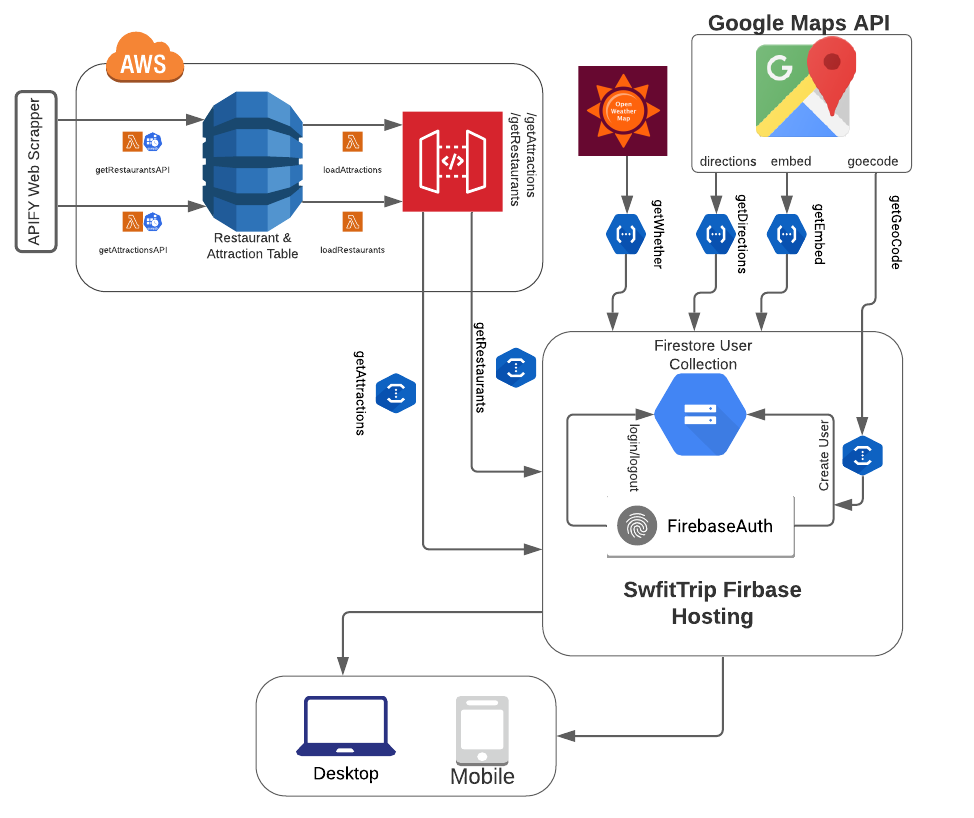
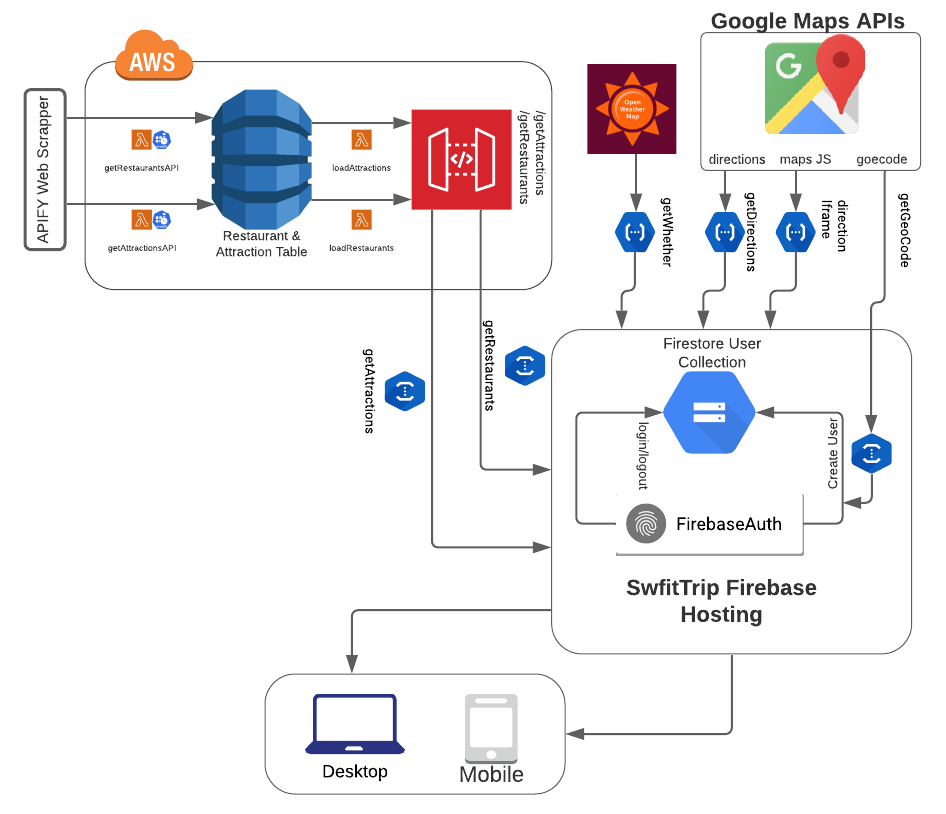
newer mods

diff --git a/firebase/public/script.js b/firebase/public/script.js
@@ -17,8 +17,76 @@ document.getElementById('attraction-desk').addEventListener('click', () => loadA
 document.getElementById('attraction-mobile').addEventListener('click', () => loadAttractions());
 document.getElementById('account-details').addEventListener('click', async () => { accountDetails()});
 document.getElementById('account-details-mobile').addEventListener('click', async () => { accountDetails()});
+document.getElementById('dark-mode-mobile').addEventListener('click', () => darkBoolean());
+document.getElementById('dark-mode').addEventListener('click', () => darkBoolean());
+
+//dark mode
+function darkBoolean() {
+    if(dark) {
+        dark = false
+        firestore.collection('users').doc(auth.currentUser.uid).update({dark: false});
+    } else {
+        dark = true;
+        firestore.collection('users').doc(auth.currentUser.uid).update({dark: true});
+    }
+    darkToggle();
+}
+async function darkToggle() {
+    let user = await firestore.collection('users').doc(auth.currentUser.uid).get();
+    dark = user.data().dark;
+    if(dark === true) {
+        document.querySelectorAll('.card').forEach(card => {
+            card.classList.remove('grey')
+            card.classList.remove('darken-2')
+        })
+        document.querySelectorAll('.card-reveal').forEach(card => {
+            card.classList.remove('grey')
+            card.classList.remove('darken-2')
+        })
+        document.querySelectorAll('.modal').forEach(card => {
+            card.classList.remove('grey')
+            card.classList.remove('darken-2')
+        })
+        document.body.classList.remove('grey')
+        document.body.classList.remove('darken-3')
+        document.body.classList.remove('white-text')
+        document.querySelector('.sidenav').classList.remove('grey')
+        document.querySelector('.sidenav').classList.remove('darken-3')
+        document.querySelector('.sidenav').classList.remove('white-text')
+        document.querySelectorAll('.mnav').forEach(item => {
+            item.classList.remove('grey')
+            item.classList.remove('darken-3') 
+            item.classList.remove('white-text')
+        });
+    } else {
+        document.querySelectorAll('.modal').forEach(card => {
+            card.classList.add('grey')
+            card.classList.add('darken-2')
+        })
+        document.querySelectorAll('.card').forEach(card => {
+            card.classList.add('grey')
+            card.classList.add('darken-2')
+        })
+        document.querySelectorAll('.card-reveal').forEach(card => {
+            card.classList.add('grey')
+            card.classList.add('darken-2')
+        })
+        document.body.classList.add('grey')
+        document.body.classList.add('darken-3')
+        document.body.classList.add('white-text')
+        document.querySelector('.sidenav').classList.add('grey')
+        document.querySelector('.sidenav').classList.add('darken-3')
+        document.querySelector('.sidenav').classList.add('white-text')
+        document.querySelectorAll('.mnav').forEach(item => {
+            item.classList.add('grey')
+            item.classList.add('darken-3') 
+            item.classList.add('white-text')
+        });
+    }
+}
 
 //Variables that store data
+export let dark = false;
 let responseRestaurant = [];
 let responseAttraction = [];
 let likes = [];
@@ -29,9 +97,11 @@ let weather = ``;
 let weatherIcon = ``;
 let temp;
 let type;
+let token = '';
 
 //landing Page functions
 export default function landingPage() {
+    darkToggle();
     document.getElementById('logged-in-content').innerHTML = `<h4 class="center">Welcome to SwiftTrip!</h4>    
                                                                 <div class="parallax-container logged-out">
                                                                     <div class="parallax"><img src="images/dusk.jpg" style="transform: translate3d(-40%, 150px, 0px); opacity: 1;"></div>
@@ -109,6 +179,7 @@ export async function loadAttractions() {
     })
     let image = document.querySelectorAll('.materialboxed');
     let imageInstance = M.Materialbox.init(image);
+    darkToggle();
 }
 
 //render attractions page
@@ -126,7 +197,7 @@ function loadAttractionElement(attraction) {
             ${genLikeHtml1(attraction.attractionId)}
         </div>
         <div class="card-reveal">
-            <span class="card-title grey-text text-darken-4">${attraction.name}<i class="material-icons right">close</i></span>
+            <span class="card-title">${attraction.name}<i class="material-icons right">close</i></span>
             <p>${attraction.street}</p>
             <div class="row">
                 <div class="col s12 m4">
@@ -134,13 +205,20 @@ function loadAttractionElement(attraction) {
                     <p><i class="material-icons-outlined left">reviews</i> Overall Rating: ${attraction.rating}/5</p>
                     <p><i class="material-icons-outlined left">groups</i> Currently ${attraction.popularTime}% Occupied</p>
                     <a target="_blank" href="http://www.${attraction.website}"><i class="material-icons-outlined left">language</i>Website</a>
-                    <p><i class="material-icons-outlined left">restaurant</i> Cuisine: ${attraction.type}</p>
+                    <p><i class="material-icons-outlined left">park</i> Type: ${attraction.type}</p>
                 </div>
                 <div class="col s12 m4">
                     <h6>Map</h6>
-                    <iframe class="center" width="275" style="border:0" loading="lazy" allowfullscreen
-                        src="https://www.google.com/maps/embed/v1/place?key=APIKEY&q=place_id:${attraction.placeId}">
-                    </iframe>
+                    <div id="map-${attraction.placeId}" style="height:175px">
+                        <iframe
+                            class="center"
+                            width="275"
+                            style="border:0"
+                            loading="lazy"
+                            allowfullscreen
+                            src="https://www.google.com/maps/embed/v1/place?key=AIzaSyBk9-q-2IJGlD0OoWJJ-AT9DV0kYatK8xA&q=place_id:${attraction.placeId}">
+                        </iframe>
+                    </div>
                 </div>
                 <div class="col s12 m4" id="direction-${attraction.placeId}">
                     <a id="${attraction.placeId}" class="waves-effect blue btn direction center"><i class="material-icons-outlined left">directions</i>Directions</a>
@@ -242,6 +320,7 @@ export async function loadItems() {
     })
     let image = document.querySelectorAll('.materialboxed');
     let imageInstance = M.Materialbox.init(image);
+    darkToggle()
 }
 
 //generate the card layout
@@ -259,7 +338,7 @@ function loadRestaurantElement(restaurant) {
             ${genLikeHtml(restaurant.retaurantId)}
         </div>
         <div class="card-reveal">
-            <span class="card-title grey-text text-darken-4">${restaurant.name}<i class="material-icons right">close</i></span>
+            <span class="card-title">${restaurant.name}<i class="material-icons right">close</i></span>
             <p>${restaurant.street}</p>
             <div class="row">
                 <div class="col s12 m4">
@@ -271,14 +350,16 @@ function loadRestaurantElement(restaurant) {
                 </div>
                 <div class="col s12 m4">
                     <h6>Map</h6>
-                    <iframe
-                        class="center"
-                        width="275"
-                        style="border:0"
-                        loading="lazy"
-                        allowfullscreen
-                        src="https://www.google.com/maps/embed/v1/place?key=APIKEY&q=place_id:${restaurant.placeId}">
-                    </iframe>
+                    <div id="map-${restaurant.placeId}" style="height:175px">
+                        <iframe
+                            class="center"
+                            width="275"
+                            style="border:0"
+                            loading="lazy"
+                            allowfullscreen
+                            src="https://www.google.com/maps/embed/v1/place?key=AIzaSyBk9-q-2IJGlD0OoWJJ-AT9DV0kYatK8xA&q=place_id:${restaurant.placeId}">
+                        </iframe>
+                    </div>
                 </div>
                 <div class="col s12 m4" id="direction-${restaurant.placeId}">
                     <a id="${restaurant.placeId}" class="waves-effect blue btn direction center"><i class="material-icons-outlined left">directions</i>Directions</a>
@@ -347,10 +428,44 @@ async function getDirections(origin) {
     let time = directions.data.routes[0].legs[0].duration.text;
     let miles = directions.data.routes[0].legs[0].distance.text;
     let mainRoad = directions.data.routes[0].summary;
+    const directionService = new google.maps.DirectionsService();
+    const directionRender = new google.maps.DirectionsRenderer();
+    const map = new google.maps.Map(document.getElementById("map-"+origin), {
+        zoom: 7,
+        center: { lat: 35.9132, lng: 79.0558 },
+        disableDefaultUI: true,
+    });
+    directionRender.setMap(map);
+    renderDirectionMap(directionService, directionRender, destination, origin);
     document.getElementById('direction-'+origin).innerHTML = `<h6>Fastest Route</h6>
                                                               <p><i class="material-icons-outlined left">schedule</i> ${time}</p>
                                                               <p><i class="material-icons-outlined left">map</i> ${miles}</p>
                                                               <p><i class="material-icons-outlined left">add_road</i> via ${mainRoad}</p>`
+}
+
+function renderDirectionMap(service, renderer, originLocation, destinationLocation) {
+    service.route({
+        origin: {
+            placeId: originLocation
+        },
+        destination: {
+            placeId: destinationLocation
+        },
+        travelMode: google.maps.TravelMode.DRIVING,
+    },
+    (response, status) => {
+        if(status === 'OK') {
+            renderer.setDirections(response);
+        }
+    })
+}
+
+function formComplete() {
+   return new google.maps.places.Autocomplete(
+        document.getElementById('detail-address'), {
+            types: ['geocode'],
+        }
+    )
 }
 
 //account details page and helper functions
@@ -392,6 +507,7 @@ async function accountDetails() {
         <h4 class="center">Favorite Attractions</h4>
         ${likedAttractions}
         <br>`;
+        let autocomplete = formComplete();
         let image = document.querySelectorAll('.materialboxed');
         let imageInstance = M.Materialbox.init(image);
         document.querySelectorAll(".add-favorite").forEach(item => {
@@ -428,6 +544,7 @@ async function accountDetails() {
                 document.getElementById("update-status").innerHTML = `<p class="green-text">Update successful!</p>`;
             })
         })
+        darkToggle();
     }
 }
 

diff --git a/firebase/public/index.html b/firebase/public/index.html
@@ -13,10 +13,28 @@
         href="https://fonts.googleapis.com/css?family=Material+Icons|Material+Icons+Outlined|Material+Icons+Two+Tone|Material+Icons+Round|Material+Icons+Sharp"
         rel="stylesheet">
     <link rel="stylesheet" href="https://cdnjs.cloudflare.com/ajax/libs/font-awesome/5.15.3/css/all.min.css" integrity="sha512-iBBXm8fW90+nuLcSKlbmrPcLa0OT92xO1BIsZ+ywDWZCvqsWgccV3gFoRBv0z+8dLJgyAHIhR35VZc2oM/gI1w==" crossorigin="anonymous" />
+    <style>
+        .pac-container {
+            z-index: 1051 !important;
+        }
+    </style>
+    <script>
+        let autocomplete;
+        function initAutocomplete() {
+            autocomplete = new google.maps.places.Autocomplete(
+                document.getElementById('signup-address'), {
+                    types: ['geocode'],
+                }
+            )
+        }
+    </script>
+    <script async
+        src="https://maps.googleapis.com/maps/api/js?key=AIzaSyBk9-q-2IJGlD0OoWJJ-AT9DV0kYatK8xA&libraries=places&callback=initAutocomplete">
+    </script>
     <script src="https://ajax.googleapis.com/ajax/libs/jquery/3.5.1/jquery.min.js"></script>
 
 </head>
-<body>
+<body class="">
     <div class="navbar-fixed">
         <nav class="blue darken-4">
             <div class="nav-wrapper container">
@@ -35,6 +53,9 @@
                     <li class="logged-in">
                         <a id="logout"><i class="material-icons-outlined left">logout</i>Logout</a>
                     </li>
+                    <li class="logged-in">
+                        <a id="dark-mode"><i class="material-icons-outlined left">dark_mode</i>Dark Toggle</a>
+                    </li>
                     <li class="logged-out">
                         <a class="modal-trigger" data-target="modal-login"><i
                                 class="material-icons-outlined left">login</i>Login</a>
@@ -50,23 +71,26 @@
     </div>
     <ul class="sidenav" id="mobile-demo">
         <li class="logged-in">
-            <a id="feed-mobile"><i class="material-icons-outlined left">restaurant</i>Restaurants</a>
+            <a id="feed-mobile" class="mnav"><i class="material-icons-outlined left">restaurant</i>Restaurants</a>
         </li>
         <li class="logged-in">
-            <a id="attraction-mobile"><i class="material-icons-outlined left">park</i>Attractions</a>
+            <a id="attraction-mobile" class="mnav"><i class="material-icons-outlined left">park</i>Attractions</a>
         </li>
         <li class="logged-in">
-            <a id="account-details-mobile"><i class="material-icons-outlined left">person</i>Account</a>
+            <a id="account-details-mobile" class="mnav"><i class="material-icons-outlined left">person</i>Account</a>
         </li>
         <li class="logged-in">
-            <a id="logout-mobile"><i class="material-icons-outlined left">logout</i>Logout</a>
+            <a id="logout-mobile" class="mnav"><i class="material-icons-outlined left">logout</i>Logout</a>
+        </li>
+        <li class="logged-in">
+            <a id="dark-mode-mobile" class="mnav"><i class="material-icons-outlined left">dark_mode</i>Dark Toggle</a>
         </li>
         <li class="logged-out">
-            <a class="modal-trigger" data-target="modal-login"><i
+            <a class="modal-trigger mnav" data-target="modal-login"><i
                     class="material-icons-outlined left">login</i>Login</a>
         </li>
         <li class="logged-out">
-            <a class="modal-trigger" data-target="modal-signup"><i class="material-icons-outlined left">add</i>Create
+            <a class="modal-trigger mnav" data-target="modal-signup"><i class="material-icons-outlined left">add</i>Create
                 Account</a>
         </li>
     </ul>
@@ -105,7 +129,6 @@
                 <div class="input-field">
                     <i class="material-icons-outlined prefix">contact_mail</i>
                     <input type="text" id="signup-address" required />
-                    <label for="signup-address">Mailing Address</label>
                 </div>
                 <div class="input-field">
                     <i class="material-icons-outlined prefix">cake</i>

diff --git a/aws-functions/loadAttractions/index.js b/aws-functions/loadAttractions/index.js
@@ -8,6 +8,7 @@ exports.handler = async (event) => {
     let response = {};
     try {
         let time = new Date();
+        time.setHours(time.getHours() - 4);
         await dynamodb.scan({TableName: 'attraction'}).promise().then(data => {
             let returnArr = [];
             data['Items'].forEach(attraction => {
@@ -18,7 +19,7 @@ exports.handler = async (event) => {
                         name: item.name,
                         street: item.steet + ', Chapel Hill, NC',
                         attractionId: item.attractionId,
-                        popularTime: JSON.parse(item.popularTime)[getDayPrefix(time.getDay())][time.getHours()].occupancyPercent,
+                        popularTime: JSON.parse(item.popularTime)[getDayPrefix(time.getDay())].filter(i => i.hour === time.getHours())[0].occupancyPercent,
                         type: JSON.parse(item.type),
                         rating: item.rating,
                         website: item.website,

diff --git a/aws-functions/loadRestaurants/index.js b/aws-functions/loadRestaurants/index.js
@@ -8,6 +8,7 @@ exports.handler = async (event) => {
     let response = {};
     try {
         let time = new Date();
+        time.setHours(time.getHours() - 4);
         await dynamodb.scan({TableName: 'restaurant'}).promise().then(data => {
             let returnArr = [];
             data['Items'].forEach(restaurant => {
@@ -18,7 +19,7 @@ exports.handler = async (event) => {
                         name: item.name,
                         street: item.steet + ', Chapel Hill, NC',
                         retaurantId: item.restaurantId,
-                        popularTime: JSON.parse(item.popularTime)[getDayPrefix(time.getDay())][time.getHours()].occupancyPercent,
+                        popularTime: JSON.parse(item.popularTime)[getDayPrefix(time.getDay())].filter(i => i.hour === time.getHours())[0].occupancyPercent,
                         type: JSON.parse(item.type),
                         rating: item.rating,
                         website: item.website,

diff --git a/readme.md b/readme.md
@@ -19,14 +19,22 @@ SwfitTrip is a one stop web application that shows you restaurants and attractio
 - Google Maps Direction API
   - The direction api is called to find the directions from a users location to a place the select in the application  (restaurant, attraction)
   - The user placeId that was geocoded prior is pulled from Firestore and directions are provided
-- Google Maps Embed API
-  - The Embed API is shown to render a small square on each location card element to show where that location is located in Chapel Hill
+- Google Maps Javascript API
+  - This API is used to retrieve an iframe embedd of a Google Maps Objec with directions rendered on top of the map
 
-## AWS Lambda Functions
-I have created two lambda functions set up as cron jobs to update the DynamoDB tables every 24 hours. Two other functions take the data from DynamoDB process it and display it back to the application via exposed API endpoints created in AWS API Gateway. This ensures that the front end stays relatively light as all data processing is on the backend.
+## AWS Backend
+I have created two lambda functions set up as cron jobs to update DynamoDB tables every 24 hours. Two other functions take the data from DynamoDB process it and display it back to the application via exposed API endpoints created in AWS API Gateway. This ensures that the front end stays relatively light as all data processing is on the backend. All of the infomration that is rendered on my main two application pages is stored completely in DynamoDB in AWS
 
 ## Firebase Configuration
-Firebases house the hosting for the entire website as well as user accounts and other backend functions. All user information is stored in Firestore. Access to application resources are only permitted if there is logged in user. From here 5 firebase functions call outside resources (AWS API Endpoints, Geocode API, Directions API, and OpenWeatherMap).
+Firebases houses the hosting for the entire website as well as user accounts. Access to application resources are only permitted if there is logged in user. From here 5 firebase functions call outside resources (AWS API Endpoints, Geocode API, Directions API, and OpenWeatherMap).
 
 ## Other Info
 All API access keys have been removed from this repository.
+
+## Projected Point Break Down
+1. 5 API's (APIFY, OpenWeatherMap, Geocode, Direction, Maps Javascript) : 55 Points
+2. Complete Backend Framework (Mixed with Firebase and AWS, confirmed with Chris) : 30 Points
+3. Autocomp (Both Address fields in forms uses the Places Autocomplete API) : 10 Points
+4. Dark Mode (Synced With User) : 5 Points
+
+Points total up to 100, 10 extra for any margin of error
